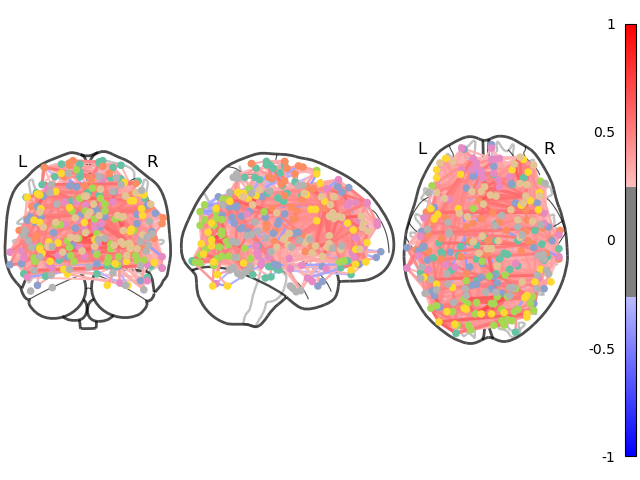
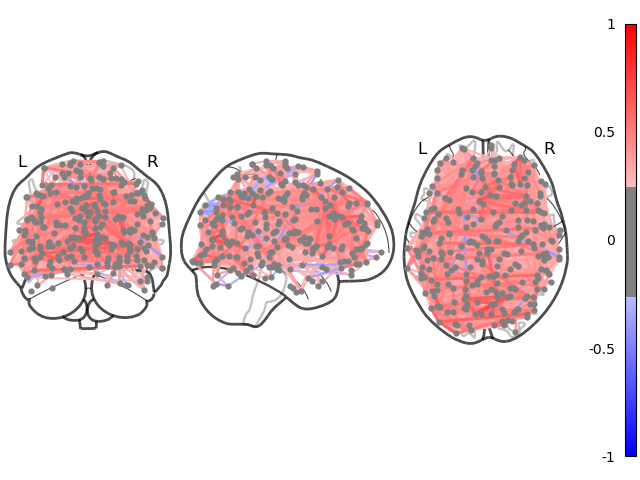
CHG: First round of feedback-induced changes
- reworked exemplary functional connectome
- redesigned virtual dataset illustration slide
- revamped summary slide: split up into what acme
  does and what it does not

 On branch main
 Changes to be committed:
	modified:   acme.qmd
	modified:   css/esi.scss
	modified:   imgs/subject0.png
	modified:   imgs/virtual_dataset_illustration.odp
	new file:   imgs/virtual_dataset_illustration_i.png
	new file:   imgs/virtual_dataset_illustration_ii.png

Changed region(s): [[0.0, 0.2812, 0.9062, 0.7188]]

diff --git a/css/esi.scss b/css/esi.scss
@@ -50,7 +50,7 @@ $code-block-border-color: $baseColor;
 .reveal .esi-footer {
     position: absolute;
     bottom: 0.3em;
-    right: 0.5em;
+    right: 0.9em;
     left: 1.4em;
     height: 1em;
     z-index: 1;
